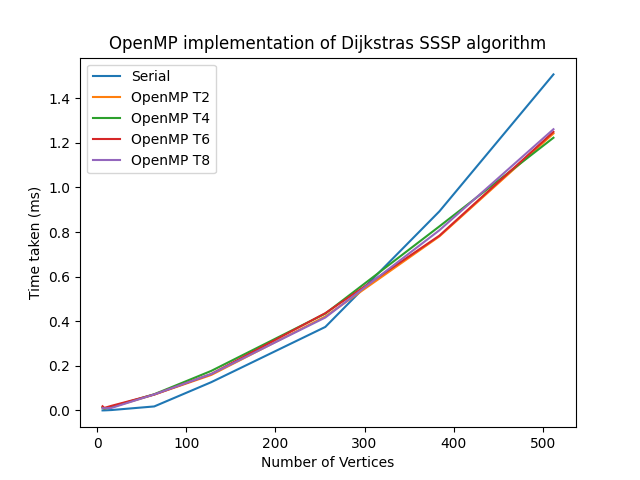
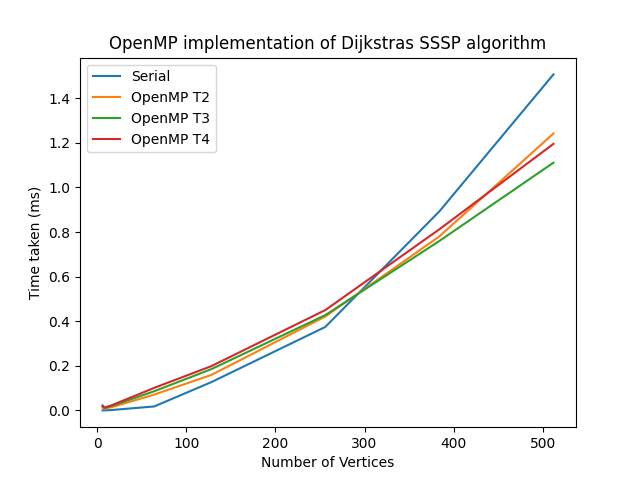
OMP done

diff --git a/sssp_dijkstra/plot.py b/sssp_dijkstra/plot.py
@@ -3,7 +3,7 @@ import matplotlib.pyplot as plt
 if __name__ == '__main__':
     
     filepath = './sssp_dijkstra/sssp.out'
-    names = ["Serial", "OpenMP T2", "OpenMP T4", "OpenMP T6", "OpenMP T8"]
+    names = ["Serial", "OpenMP T2", "OpenMP T3", "OpenMP T4", "OpenMP T8"]
     x = [6,8,16,64,128,256,384,512]  # this is the range of input sizes tested
     with open(filepath, 'r') as file:
         for i, line in enumerate(file):

diff --git a/sssp_dijkstra/sssp_omp.c b/sssp_dijkstra/sssp_omp.c
@@ -242,7 +242,7 @@ int* dijkstra(int **graph, int src){
 
     /* OpenMP parallelization starts here */
     #pragma omp parallel private ( my_first, my_id, my_last, my_md, my_mv, my_step )\
-    shared ( src, md, dist, mv, nth, graph ) num_threads(2)
+    shared ( src, md, dist, mv, nth, graph )
     {
         my_id = omp_get_thread_num ( );
         nth = omp_get_num_threads ( );
